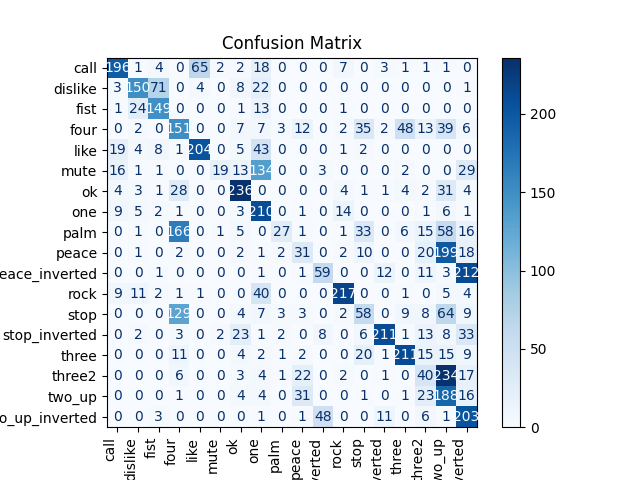
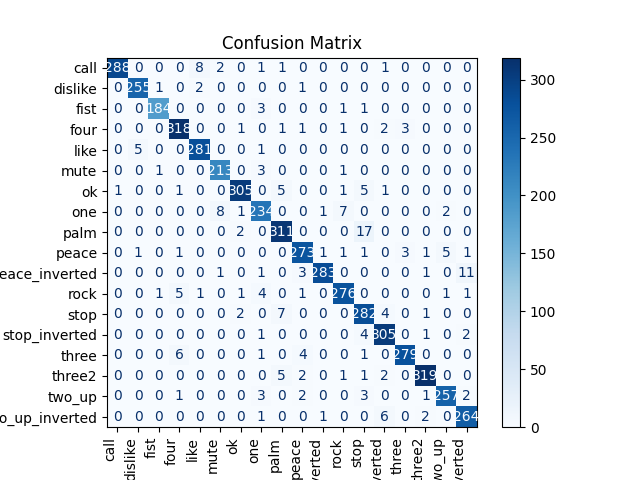
"last commit"

diff --git a/main.py b/main.py
@@ -13,6 +13,7 @@ def setup_logging():
     )
 
 def main():
+    setup_logging()
     experiment_id = setup_mlflow_experiment("Hand_Gesture_Classification")
     BASE_DIR = Path(__file__).resolve().parent
     data_path = BASE_DIR / "dataset/hand_landmarks_data.csv"
@@ -29,6 +30,7 @@ def main():
     """
     rf_model = train_random_forest(X_train, y_train,"RandomForestClassifier",pkl_dir)
     #rf_model=joblib.load(pkl_dir/"RandomForestClassifier.pkl")
+    
     log_model_with_mlflow(rf_model, X_val, y_val, "RandomForestClassifier", experiment_id, output_dir)
     
     gb_model = train_gredient_Boost(X_train, y_train,"GredientBoostingClassifier",pkl_dir)
@@ -40,7 +42,7 @@ def main():
     log_model_with_mlflow(sv_model, X_val, y_val, "SVMClassifier", experiment_id, output_dir)
     
     test_acc=testing(experiment_id,X_test,y_test)
-    print(f"final accuacy for testing: {test_acc}")
+    logging.info(f"final accuacy for testing: {test_acc}")
      
 
 if __name__ == "__main__":

diff --git a/src/mlflowLogging.py b/src/mlflowLogging.py
@@ -15,12 +15,13 @@ def log_model_with_mlflow(model, X_val, y_val, model_name, exp_id, output_dir):
     with mlflow.start_run(experiment_id=exp_id, run_name=model_name) as run:
         logging.info(f"Logging {model_name} to MLflow...")
         mlflow.set_tag("model", model_name)
-
-        pred = model.predict(X_val)
+        best=model.best_estimator_
+        pred = best.predict(X_val)
         accuracy,pres,recall,f1_sc= evaluation(y_val, pred,output_dir,model_name)
          
 
         mlflow.log_params(model.best_params_)
+
         mlflow.log_metrics({
             "Mean CV score": model.best_score_,
             "val_Accuracy": accuracy,

diff --git a/src/preprocessing.py b/src/preprocessing.py
@@ -18,7 +18,7 @@ def recenter_landmarks(landmarks):
 
 def normalize_landmarks(landmarks):
     mid_finger_x, mid_finger_y = landmarks.iloc[:,9 * 3], landmarks.iloc[:,9 * 3 + 1]
-    norm=np.sqrt(mid_finger_x**2+mid_finger_y**2)
+    norm=np.sqrt(mid_finger_x**2,mid_finger_y**2)
     # Prevent division by zero
     norm[norm==0]=1
     # Normalize landmarks

diff --git a/readme.md b/readme.md
@@ -1,0 +1,67 @@
+
+# Hand Gesture Classification – Model Training & Selection
+
+This repository contains the research phase of the Hand Gesture Classification project. It includes model training, evaluation, and experiment tracking using **MLflow**.
+
+---
+
+## 🧪 Setup Instructions
+
+ **Install Requirements**
+
+   ```bash
+   pip install -r requirements.txt
+   ```
+
+---
+
+## 🚀 Running MLflow and Experiments
+
+1. **Start MLflow UI**
+
+   ```bash
+   mlflow ui
+   ```
+
+   This will serve the tracking UI at: [http://127.0.0.1:5000](http://127.0.0.1:5000)
+
+2. **Run Experiment Script**
+
+   ```bash
+   python main.py
+   ```
+
+   This script trains different models and logs metrics, parameters, and artifacts to MLflow.
+
+---
+
+## ✅ Model Selection
+
+We trained and evaluated the following models:
+
+- `SVMClassifier`
+- `GradientBoostingClassifier`
+- `RandomForestClassifier`
+
+### 🔍 Why SVMClassifier Was Chosen for Deployment
+
+The **SVMClassifier** was selected for deployment because it achieved the best overall performance on validation metrics, including accuracy, F1-score, precision, and recall. It also had the highest **cross-validation (CV) score**, which indicates generalization to unseen data.
+
+---
+
+## 📊 Model Comparison Table
+
+| Model                   | Mean CV Score | Accuracy | F1-score | Precision | Recall  |
+|------------------------|---------------|----------|----------|-----------|---------|
+| SVMClassifier           | **0.9723**    | **0.9753** | **0.9753** | **0.9755**  | **0.9753** |
+| GradientBoostingClassifier | 0.9528        | 0.9595   | 0.9596   | 0.9600    | 0.9595  |
+| RandomForestClassifier  | 0.8443        | 0.7244   | 0.7243   | 0.7610    | 0.7244  |
+
+## 📌 Notes
+
+- All experiments are tracked using MLflow and can be viewed via the UI.
+- The selected model (SVM) is used in the deployment_Hand-Gesture-Classification_project repository.
+```
+https://github.com/Amany-alsayed/deployment_Hand-Gesture-Classification_project
+```
+
